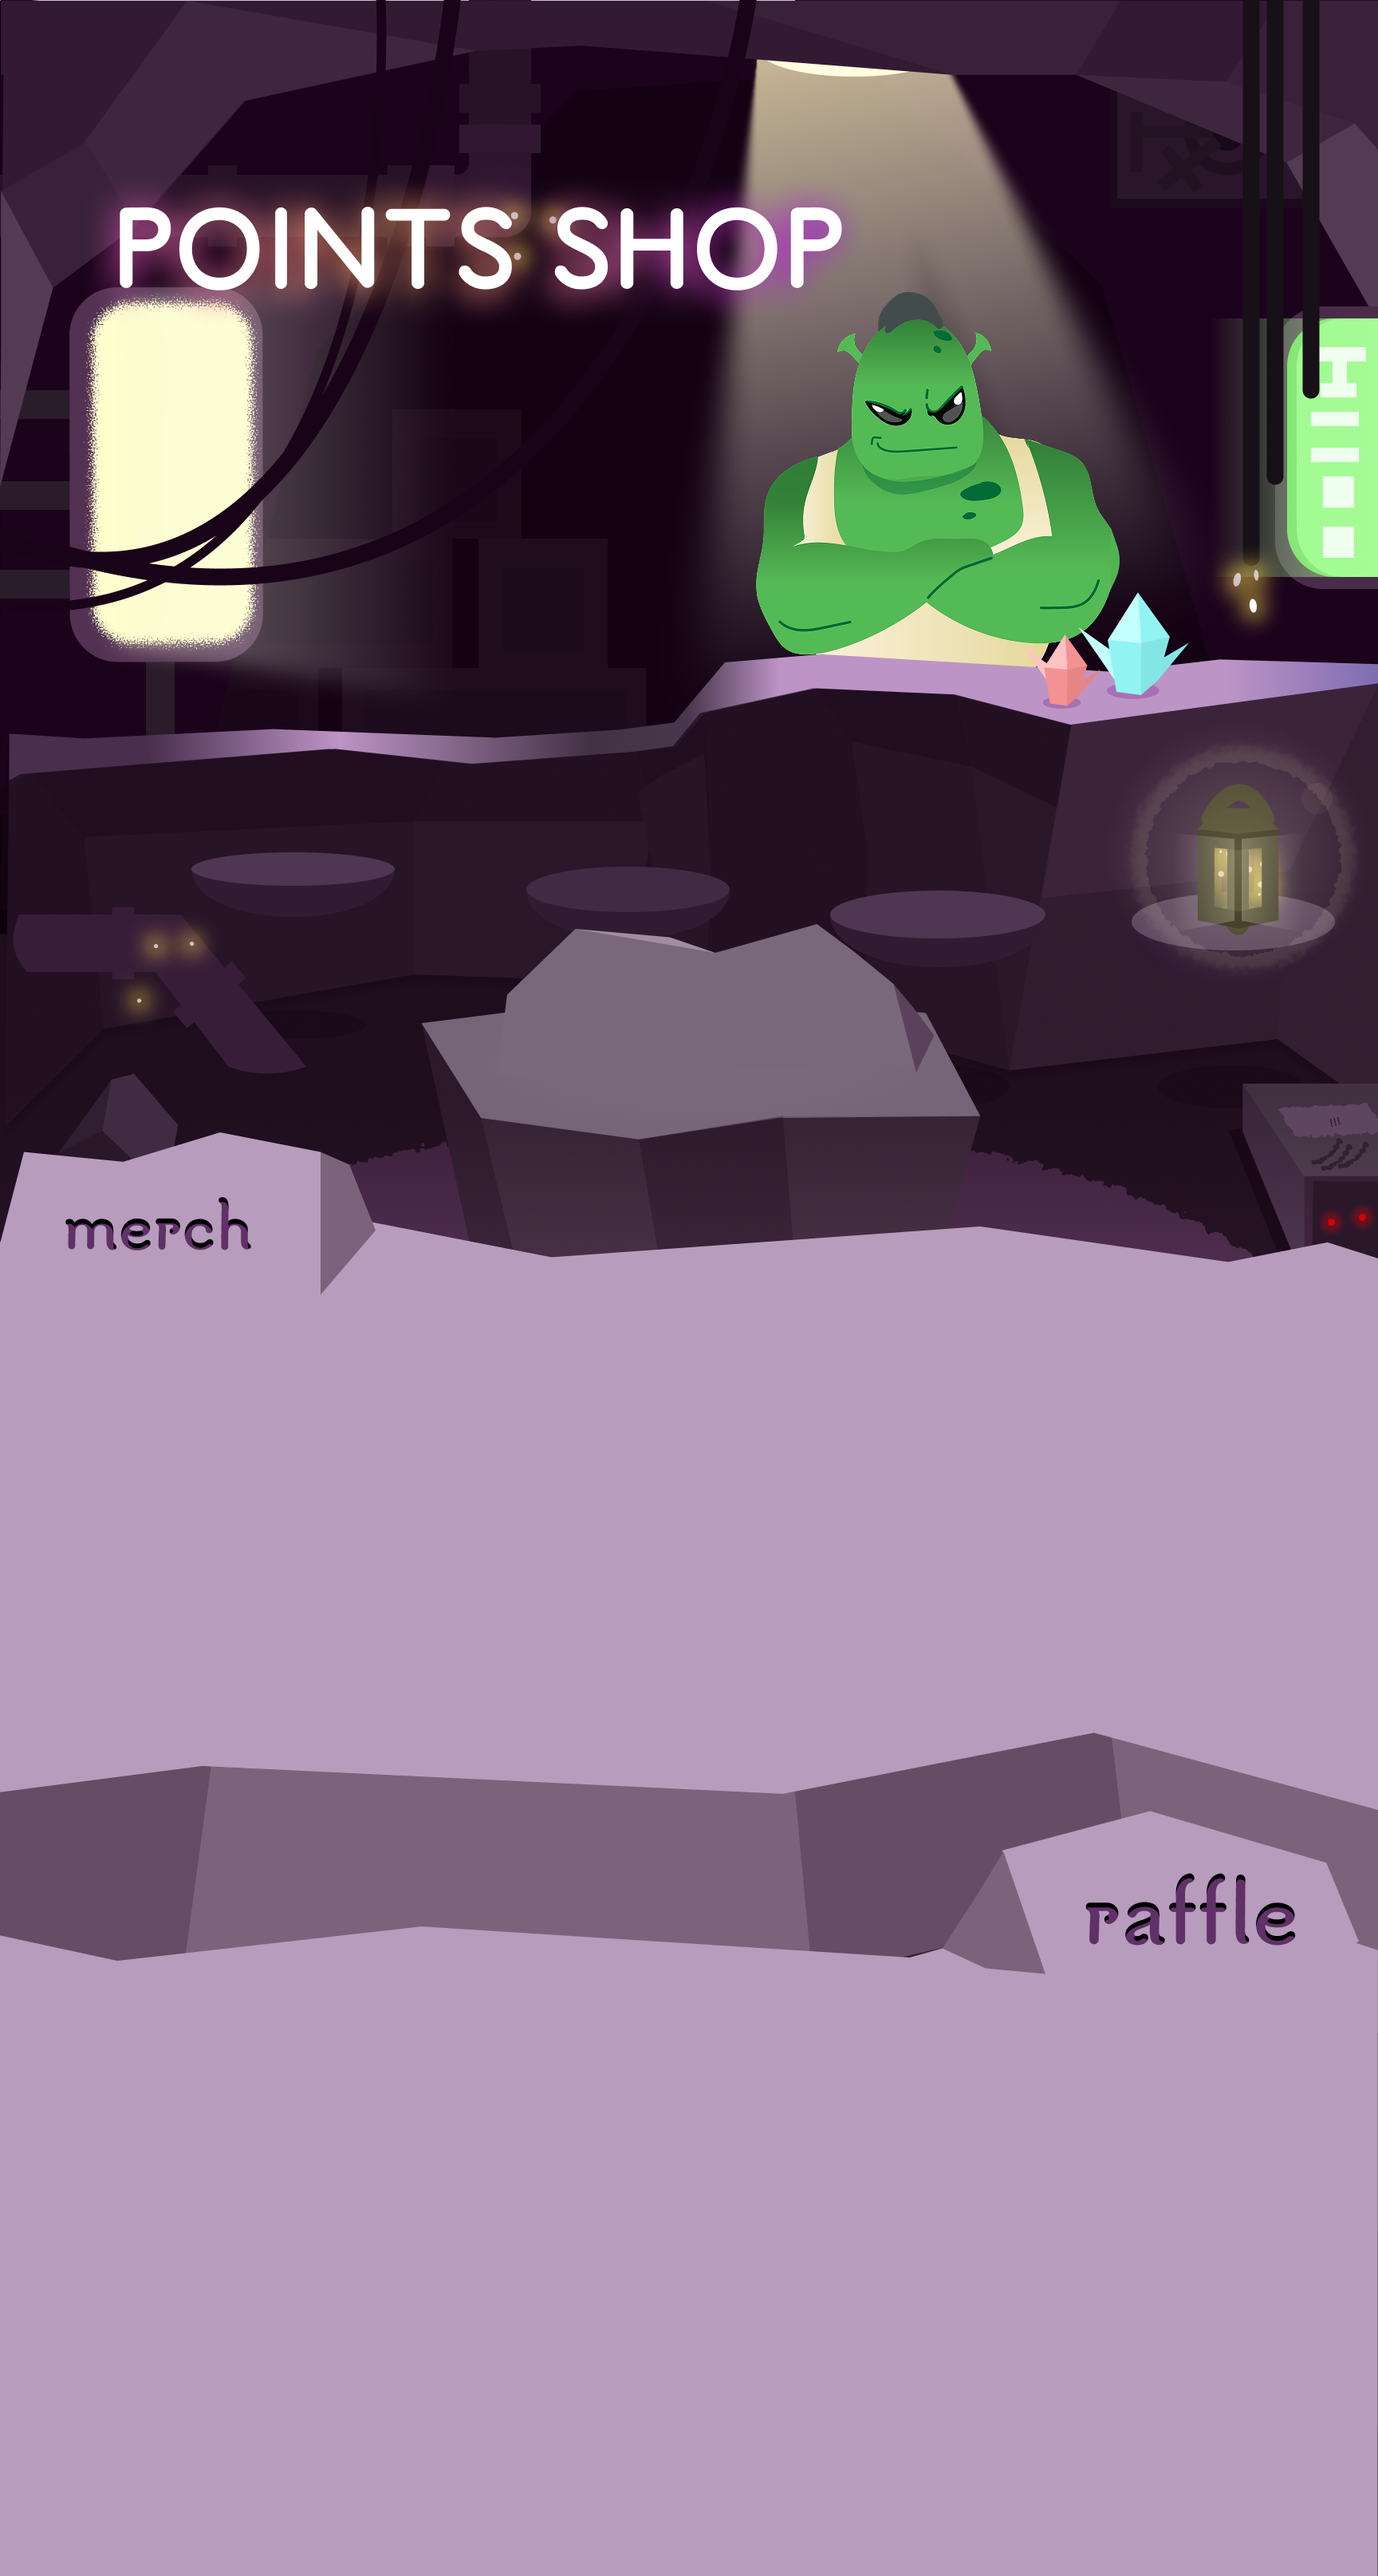
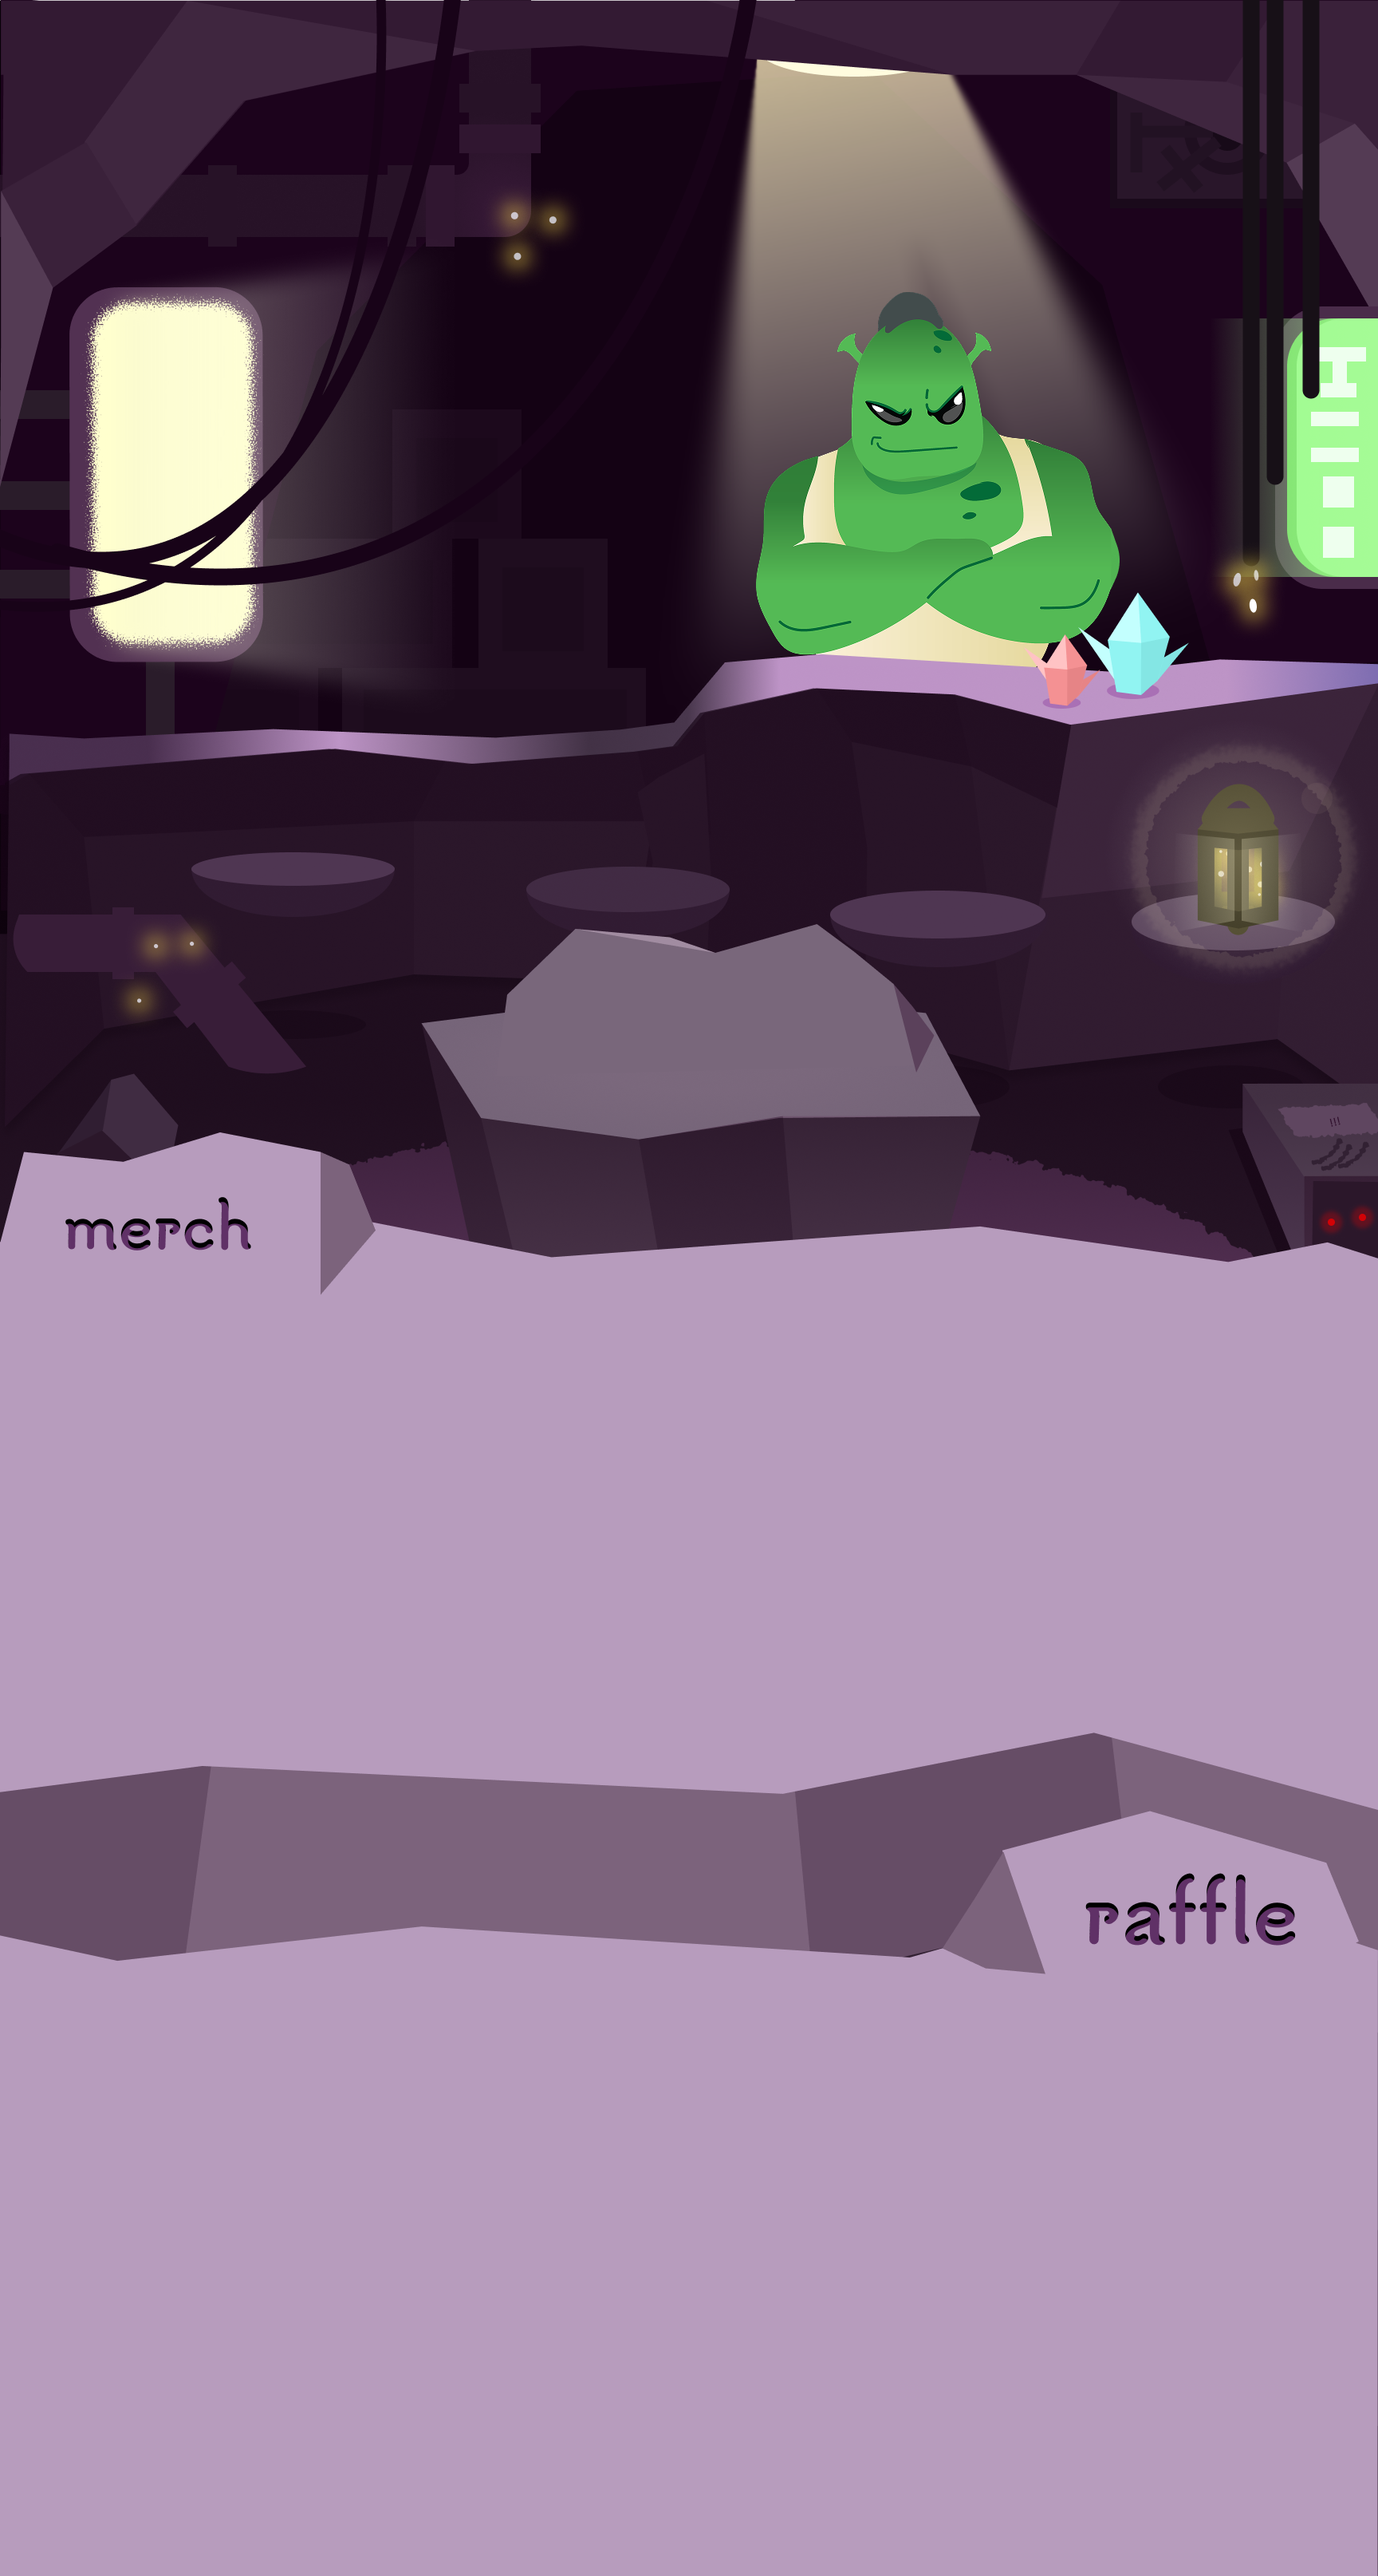
[fix] refactor + fixes

Changed region(s): [[0.0625, 0.062, 0.625, 0.1239]]

diff --git a/app/(tabs)/Shop.tsx b/app/(tabs)/Shop.tsx
@@ -12,6 +12,7 @@ import {
   Alert,
   ImageBackground,
   Pressable,
+  Image,
 } from "react-native";
 import AsyncStorage from "@react-native-async-storage/async-storage";
 import TypeWriter from "react-native-typewriter";
@@ -32,11 +33,11 @@ const tutorialTexts = [
 
 const getSpacing = (screenHeight: number) => {
   if (screenHeight < 700) {
-    return { cartMargin: 15, rowSpacer: 45, bottomPadding: 0 };
+    return { cartMargin: 40, rowSpacer: 45, bottomPadding: 0 };
   } else if (screenHeight < 850) {
-    return { cartMargin: 20, rowSpacer: 70, bottomPadding: 20 };
+    return { cartMargin: 40, rowSpacer: 60, bottomPadding: 5 };
   }
-  return { cartMargin: 40, rowSpacer: 80, bottomPadding: 20 };
+  return { cartMargin: 45, rowSpacer: 80, bottomPadding: 20 };
 };
 
 const chunkItems = (items: ShopItem[]): ShopItem[][] => {
@@ -68,8 +69,7 @@ export default function PointShop() {
   useEffect(() => {
     const checkTutorial = async () => {
       try {
-        // const completed = await AsyncStorage.getItem(TUTORIAL_KEY);
-        const completed = false
+        const completed = await AsyncStorage.getItem(TUTORIAL_KEY);
 
         if (!completed) {
           setTutorialStep(0);
@@ -167,6 +167,11 @@ export default function PointShop() {
   return (
     <ImageBackground source={backgroundSource} style={styles.container} resizeMode="cover">
       <SafeAreaView style={[styles.safeArea, { paddingBottom: spacing.bottomPadding }]}>
+        <Image
+          source={require("../../assets/point shop/point-shop-title.png")}
+          style={styles.titleImage}
+          resizeMode="contain"
+        />
         <View style={styles.contentContainer}>
           <View style={[styles.cartButtonContainer, { marginBottom: spacing.cartMargin }]}>
             <CartButton
@@ -215,7 +220,7 @@ export default function PointShop() {
             <TypeWriter
               key={typewriterKey}
               typing={1}
-              initialDelay={100}
+              initialDelay={50}
               minDelay={10}
               maxDelay={20}
               style={styles.tutorialText}
@@ -245,10 +250,18 @@ const styles = StyleSheet.create({
   },
   safeArea: {
     flex: 1,
-    justifyContent: "flex-end",
+  },
+  titleImage: {
+    width: 200,
+    height: 60,
+    marginLeft: 20,
+    marginTop: 10,
+    alignSelf: "flex-start",
   },
   contentContainer: {
+    flex: 1,
     alignItems: "center",
+    justifyContent: "flex-end",
   },
   cartButtonContainer: {
     alignSelf: "center",

diff --git a/components/point shop/ShopItemCard.tsx b/components/point shop/ShopItemCard.tsx
@@ -1,35 +1,12 @@
 import { ShopItem } from "../../types";
 import { StyleSheet, View, Text, Image, TouchableOpacity } from "react-native";
 import { memo } from "react";
-import Svg, { Path, Rect } from "react-native-svg";
+import ShopCardBackground from "../../assets/point shop/point-shop-case.svg";
 
 interface ShopItemCardProps {
   item: ShopItem;
   onPress: () => void;
 }
-
-const ShopCardBackground = memo(() => (
-  <Svg width="100%" height="100%" viewBox="0 0 182 158" fill="none" preserveAspectRatio="none">
-    <Path
-      d="M182 132.733C182 155.639 132.397 158 87.0615 158C41.7263 158 0 150.588 0 130.173C0 109.759 41.7263 55 87.0615 55C132.397 55 182 89.8871 182 132.733Z"
-      fill="#664D66"
-      fillOpacity="0.5"
-    />
-    <Path d="M37.711 74.4502H145.477L165.445 126.565H14.89L37.711 74.4502Z" fill="#1E1D2B" />
-    <Rect x="14.89" y="126.565" width="150.555" height="14.8901" fill="#3D3C51" />
-    <Rect x="38.5524" y="0.5" width="106.539" height="74.2775" fill="#1E1D2B" stroke="black" />
-    <Rect x="41.3613" y="81.0681" width="100.094" height="11.5812" fill="#595776" />
-    <Path
-      d="M26.0576 120.361L41.3613 81.4817V93.0628L33.9162 120.361H26.0576Z"
-      fill="#424158"
-    />
-    <Path
-      d="M156.759 120.361L141.455 81.4817V93.0628L148.901 120.361H156.759Z"
-      fill="#424158"
-    />
-    <Path d="M41.3613 92.6492H141.455L148.901 120.361H33.9162L41.3613 92.6492Z" fill="#4B4A62" />
-  </Svg>
-));
 
 const ShopItemCard = memo(({ item, onPress }: ShopItemCardProps) => {
   return (
@@ -39,7 +16,7 @@ const ShopItemCard = memo(({ item, onPress }: ShopItemCardProps) => {
       activeOpacity={0.7}
     >
       <View style={styles.backgroundContainer}>
-        <ShopCardBackground />
+        <ShopCardBackground width="100%" height="100%" preserveAspectRatio="none" />
       </View>
       <View style={styles.contentContainer}>
         <Text style={styles.name} numberOfLines={2}>
